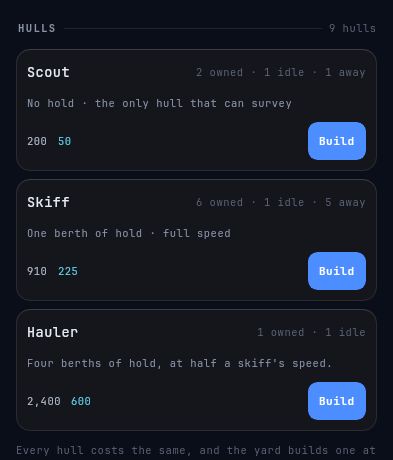
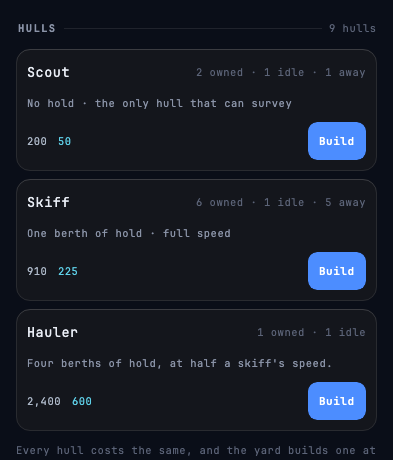
Delete the NOT YET BUILT section, which nothing could reach any more
The coverage report pointed straight at it: `shipyard.ui` fell **17.2%** in
one commit, because `ComingHullList` became unreachable the moment the Hauler
moved from a promise to a purchase. Its list is empty, so the composable, its
type and the screen's branch were all code nothing could render.

**Deleted rather than left empty, which is this file's own rule** about the
`when`s it once replaced: *"copy written before its slice is copy nobody chose
— and it is a branch no test can reach."* An empty list, a component nothing
renders and a type nothing constructs are the same speculation wearing three
shapes. The escort and the settler are still slices nobody has scheduled.

The section comes back with the first hull that has a date, and `git log` is
where its drawing is kept — the same treatment `FRONTIER_PERCENT` and
`hullsToLift` got, which is now three times this release that a thing outlived
its rule and the fix was to say so rather than to keep it warm.

Design named one card for that section and the card has shipped, so the
promise is kept rather than dropped.

diff --git a/client/shipyard/presentation/src/commonMain/kotlin/dev/fardavide/oltre/client/shipyard/presentation/ShipyardUiState.kt b/client/shipyard/presentation/src/commonMain/kotlin/dev/fardavide/oltre/client/shipyard/presentation/ShipyardUiState.kt
@@ -7,7 +7,6 @@ import dev.fardavide.oltre.client.design.format.toCountdown
 import dev.fardavide.oltre.client.design.text.Strings
 import dev.fardavide.oltre.client.design.text.TextRes
 import dev.fardavide.oltre.client.shipyard.ui.BuildActionUiState
-import dev.fardavide.oltre.client.shipyard.ui.ComingHullUiState
 import dev.fardavide.oltre.client.shipyard.ui.HullUiState
 import dev.fardavide.oltre.client.shipyard.ui.ShipyardUiState
 import dev.fardavide.oltre.client.shipyard.ui.YardUiState
@@ -39,9 +38,6 @@ fun GameState.toShipyardUiState(now: Instant, timeZone: TimeZone): ShipyardUiSta
         // with. What it *does* count against is the price, one line down.
         fleet = Strings.hullsInFleet(owned.total),
         hulls = FOR_SALE.map { toHullRow(it, owned = owned, now = now, timeZone = timeZone) },
-        comingHulls = COMING.map {
-            ComingHullUiState(type = it.type, name = it.name, purpose = it.purpose)
-        },
     )
 }
 
@@ -175,17 +171,14 @@ private val FOR_SALE: List<HullCopy> = listOf(
     HullCopy(ShipType.HAULER, Strings.haulerName(), Strings.haulerPurpose()),
 )
 
-// **Empty since 0.15.0, and it is meant to be.** Design's call named the Hauler by name — *"the
-// Hauler ships from slice 3 as a dimmed card carrying its one line"* — and the Hauler has now
-// shipped, so the promise is kept and the section has nothing left to promise.
+// **`NOT YET BUILT` is gone, and it is the promise being kept rather than a section being lost.**
+// Design named one card for it — *"the Hauler ships from slice 3 as a dimmed card carrying its one
+// line"* — and the Hauler has now shipped, so there was nothing left for the section to promise.
 //
-// The escort and the settler are deliberately not here, which is the same reason the ship set has
-// five constants rather than a dozen: one is a combat model and the other is colonisation, so a card
-// for either would be advertising a slice nobody has scheduled. **They join this list on the day
-// their slice is scheduled, not on the day their constant exists.**
-//
-// The section is absent rather than empty on the screen — see `ShipyardScreen`. That is a state the
-// tab has never been in and Design has not drawn; it is the honest rendering of a list with nothing
-// in it, and it is flagged rather than settled.
-private val COMING: List<HullCopy> = emptyList()
+// **It is deleted rather than left empty**, which is this file's own rule about the `when`s it
+// replaced: *"copy written before its slice is copy nobody chose — and it is a branch no test can
+// reach."* An empty list, a component nothing renders and a type nothing constructs are the same
+// speculation wearing a different shape, and the escort and the settler are still slices nobody has
+// scheduled. The section comes back with the first hull that has a date, and `git log` is where its
+// drawing is.
 

diff --git a/client/shipyard/presentation/src/commonTest/kotlin/dev/fardavide/oltre/client/shipyard/presentation/ShipyardUiStateTest.kt b/client/shipyard/presentation/src/commonTest/kotlin/dev/fardavide/oltre/client/shipyard/presentation/ShipyardUiStateTest.kt
@@ -61,16 +61,6 @@ class ShipyardUiStateTest {
     }
 
     @Test
-    fun `a hull that is only coming is not one the verb would sell`() {
-        // The dimmed cards are a promise about a later slice, so the one thing they must not be is
-        // buyable — and `shipCost` raises for a hull with no price, which would crash the tab rather
-        // than dim it.
-        val coming = fleetOf(1).toShipyardUiState(now = t0, timeZone = TimeZone.UTC).comingHulls.map { it.type }
-
-        assertTrue(coming.none { it in FleetBalance.FOR_SALE }, "a coming hull is already on sale: $coming")
-    }
-
-    @Test
     fun `the section rule counts the whole fleet rather than the idle pool`() {
         // given a colony with one skiff out and two in dock
         val state = fleetOf(3).dispatchOne()
@@ -173,19 +163,13 @@ class ShipyardUiStateTest {
     }
 
     @Test
-    fun `the promise the coming section carried has been kept and it carries nothing`() {
-        // Design's sixth call was that *"the Hauler ships from slice 3 as a dimmed card carrying its
-        // one line"*, and this test asserted the card. **The Hauler has now shipped**, so the promise
-        // is kept and the section is empty — which is a state the tab has never been in.
-        //
-        // The escort and the settler are deliberately not drawn in its place. A card for either would
-        // advertise a slice nobody has scheduled, which is the same reason the ship set has five
-        // constants rather than a dozen; they join the list on the day their slice is scheduled and
-        // not on the day their constant exists.
+    fun `the hauler is sold rather than promised`() {
+        // The `NOT YET BUILT` section is gone with the promise it carried: Design named one card for
+        // it and that hull has shipped. It comes back with the first hull that has a date — the
+        // escort and the settler are still slices nobody has scheduled, and a card for either would
+        // advertise one.
         val yard = wealthy().toShipyardUiState(now = t0, timeZone = TimeZone.UTC)
 
-        assertEquals(emptyList(), yard.comingHulls.map { it.type })
-        // ...and it is *sold* rather than merely gone from the promise.
         assertTrue(ShipType.HAULER in yard.hulls.map { it.type })
     }
 

diff --git a/client/shipyard/ui/src/desktopTest/kotlin/dev/fardavide/oltre/client/shipyard/ui/TestShipyardUiState.kt b/client/shipyard/ui/src/desktopTest/kotlin/dev/fardavide/oltre/client/shipyard/ui/TestShipyardUiState.kt
@@ -25,10 +25,6 @@ import dev.fardavide.oltre.core.ShipType
 // and are written down in exactly one place. What the frames photograph is unchanged, which is why
 // none of the four baselines moved.
 
-// **`NOT YET BUILT` is empty since 0.15.0, and that is the promise being kept.** It carried one
-// card — the Hauler — and the Hauler ships now, so the section has nothing left to promise. The
-// escort and the settler are deliberately not drawn in its place: a card for either would advertise
-// a slice nobody has scheduled. The screen omits the section when the list is empty.
 
 // **The card a colony buys first, and the one these frames had no reason to draw until 0.15.** A
 // probe flies a `SCOUT` now and genesis grants no hull, so this is the first thing on the first
@@ -88,7 +84,6 @@ internal val oneHullUiState = ShipyardUiState(
         ),
         haulerCard(pool = Strings.clauses(listOf(Strings.shipsOwned(1), Strings.shipsIdle(1))), action = BuildActionUiState.Build),
     ),
-    comingHulls = emptyList(),
 )
 
 // A fleet at depth, five of it away, and the seventh hull priced where the curve has got to. This is
@@ -111,7 +106,6 @@ internal val sixHullsUiState = ShipyardUiState(
         ),
         haulerCard(pool = Strings.clauses(listOf(Strings.shipsOwned(1), Strings.shipsIdle(1))), action = BuildActionUiState.Build),
     ),
-    comingHulls = emptyList(),
 )
 
 // **The state this tab owns.** The dispatch sheet has no affordability state because a run is free;
@@ -135,7 +129,6 @@ internal val cannotAffordUiState = ShipyardUiState(
         ),
         haulerCard(pool = Strings.clauses(listOf(Strings.shipsOwned(1), Strings.shipsIdle(1))), action = BuildActionUiState.Build),
     ),
-    comingHulls = emptyList(),
 )
 
 // **The state 0.9.0 added, and the only one on this tab where something is happening.** A hull on
@@ -196,5 +189,4 @@ internal val buildingUiState: ShipyardUiState = ShipyardUiState(
         ),
         haulerCard(pool = Strings.clauses(listOf(Strings.shipsOwned(1), Strings.shipsIdle(1))), action = BuildActionUiState.Build),
     ),
-    comingHulls = emptyList(),
 )

diff --git a/client/shipyard/ui/src/commonMain/kotlin/dev/fardavide/oltre/client/shipyard/ui/HullList.kt b/client/shipyard/ui/src/commonMain/kotlin/dev/fardavide/oltre/client/shipyard/ui/HullList.kt
@@ -175,44 +175,6 @@ private fun YardFooter(yard: YardUiState, type: ShipType) {
     }
 }
 
-// The hull a slice has not reached, drawn rather than hidden — a shop that only lists what is on
-// sale cannot teach the axis it is about to sell along. Two lines and no price, at the same 42% dim
-// a locked Research row takes, because the two mean the same thing: this exists and you cannot have
-// it yet.
-@Composable
-internal fun ComingHullList(hulls: List<ComingHullUiState>) {
-    val mono = oltreMono()
-    Column(modifier = Modifier.fillMaxWidth(), verticalArrangement = Arrangement.spacedBy(8.dp)) {
-        hulls.forEach { hull ->
-            Column(
-                modifier = Modifier
-                    .fillMaxWidth()
-                    .oltreCard(OltreCardState.WAITING)
-                    .testTag(ShipyardTestTags.card(hull.type))
-                    // After the card and not before it: an alpha ahead of the fill dims the card
-                    // itself, which turns the one opaque thing on the screen translucent again and
-                    // lets the starfield through it. See the same ordering on a locked Research row.
-                    .alpha(0.42f)
-                    .padding(11.dp),
-                verticalArrangement = Arrangement.spacedBy(7.dp),
-            ) {
-                Text(
-                    text = hull.name.resolve(),
-                    color = OltreColors.text,
-                    fontFamily = mono,
-                    fontSize = 13.5.sp,
-                    fontWeight = FontWeight.Medium,
-                )
-                Text(
-                    text = hull.purpose.resolve(),
-                    color = OltreColors.textSecondary,
-                    fontFamily = mono,
-                    fontSize = 10.5.sp,
-                )
-            }
-        }
-    }
-}
 
 // What the card is made of is the design system's; which of its three states a hull is in is this
 // feature's.

diff --git a/client/shipyard/ui/src/desktopTest/kotlin/dev/fardavide/oltre/client/shipyard/ui/ShipyardScreenBehaviourTest.kt b/client/shipyard/ui/src/desktopTest/kotlin/dev/fardavide/oltre/client/shipyard/ui/ShipyardScreenBehaviourTest.kt
@@ -29,19 +29,6 @@ class ShipyardScreenBehaviourTest {
     }
 
     @Test
-    fun `the hull that was coming is a purchase now`() {
-        // Design's sixth call was that *"the Hauler ships from slice 3 as a dimmed card carrying its
-        // one line"* — the system's rule for a thing that is coming and is not here — and this test
-        // asserted the dim card. **It has shipped**, so the same card is a verb and the `NOT YET
-        // BUILT` section it used to sit in is empty.
-        shipyard(uiState = oneHullUiState) {
-            assertShowsCard(ShipType.HAULER)
-            assertCardReads(ShipType.HAULER, "Four berths of hold")
-            assertOffersToBuild(ShipType.HAULER)
-        }
-    }
-
-    @Test
     fun `the pool is on the card and the fleet is on the heading`() {
         // **The heading counts every hull and a card counts its own type**, which is the whole of
         // the split and only became observable at 0.15: until the scout there was one card, so "the

diff --git a/client/shipyard/ui/src/commonMain/kotlin/dev/fardavide/oltre/client/shipyard/ui/ShipyardUiState.kt b/client/shipyard/ui/src/commonMain/kotlin/dev/fardavide/oltre/client/shipyard/ui/ShipyardUiState.kt
@@ -16,10 +16,6 @@ data class ShipyardUiState(
     // on the card that can act on it.
     val fleet: TextRes,
     val hulls: List<HullUiState>,
-    // The hulls a slice has not reached yet, drawn as dimmed cards carrying one line each: the
-    // system's own rule for a thing that is coming and is not here. Never empty while the ship set
-    // is scheduled to grow, which it is twice.
-    val comingHulls: List<ComingHullUiState>,
 )
 
 data class HullUiState(
@@ -61,7 +57,6 @@ data class YardUiState(
 // A card that is drawn and cannot be bought, because the slice that gives the hull a job has not
 // landed. It carries a name and a sentence and no price at all — inventing one would be
 // indistinguishable, to a reader, from a number somebody chose. See `FleetBalance.shipCost`.
-data class ComingHullUiState(val type: ShipType, val name: TextRes, val purpose: TextRes)
 
 sealed interface BuildActionUiState {
 

diff --git a/client/shipyard/ui/src/commonMain/kotlin/dev/fardavide/oltre/client/shipyard/ui/ShipyardScreen.kt b/client/shipyard/ui/src/commonMain/kotlin/dev/fardavide/oltre/client/shipyard/ui/ShipyardScreen.kt
@@ -82,14 +82,6 @@ fun ShipyardScreen(
                 lineHeight = 17.sp,
                 modifier = Modifier.padding(top = 11.dp),
             )
-            if (uiState.comingHulls.isNotEmpty()) {
-                // 22dp — the value that clears the fleet strip on Colony and separates the two
-                // branches on Research, which is what the system already spends to mean "different
-                // subject". Not a divider: these are one list of hulls with a seam in it.
-                Spacer(modifier = Modifier.height(22.dp))
-                SectionLabel(text = Strings.shipyardNotYetBuiltHeading())
-                ComingHullList(hulls = uiState.comingHulls)
-            }
         }
     }
 }
